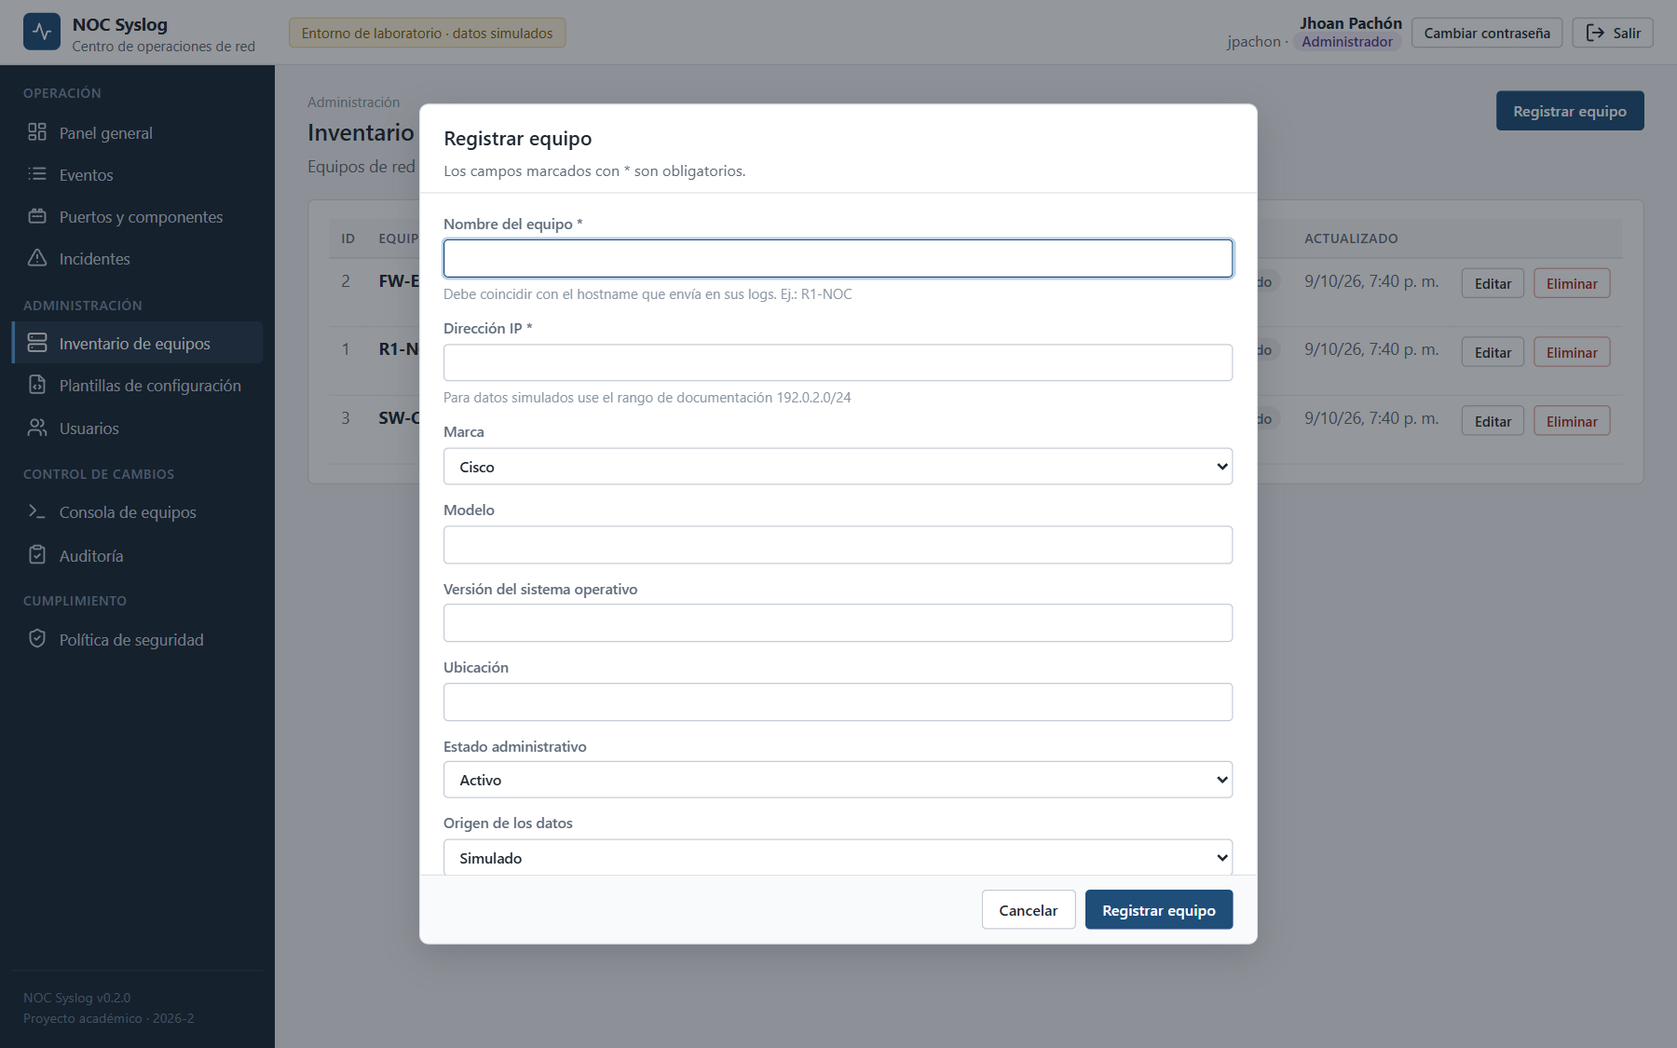
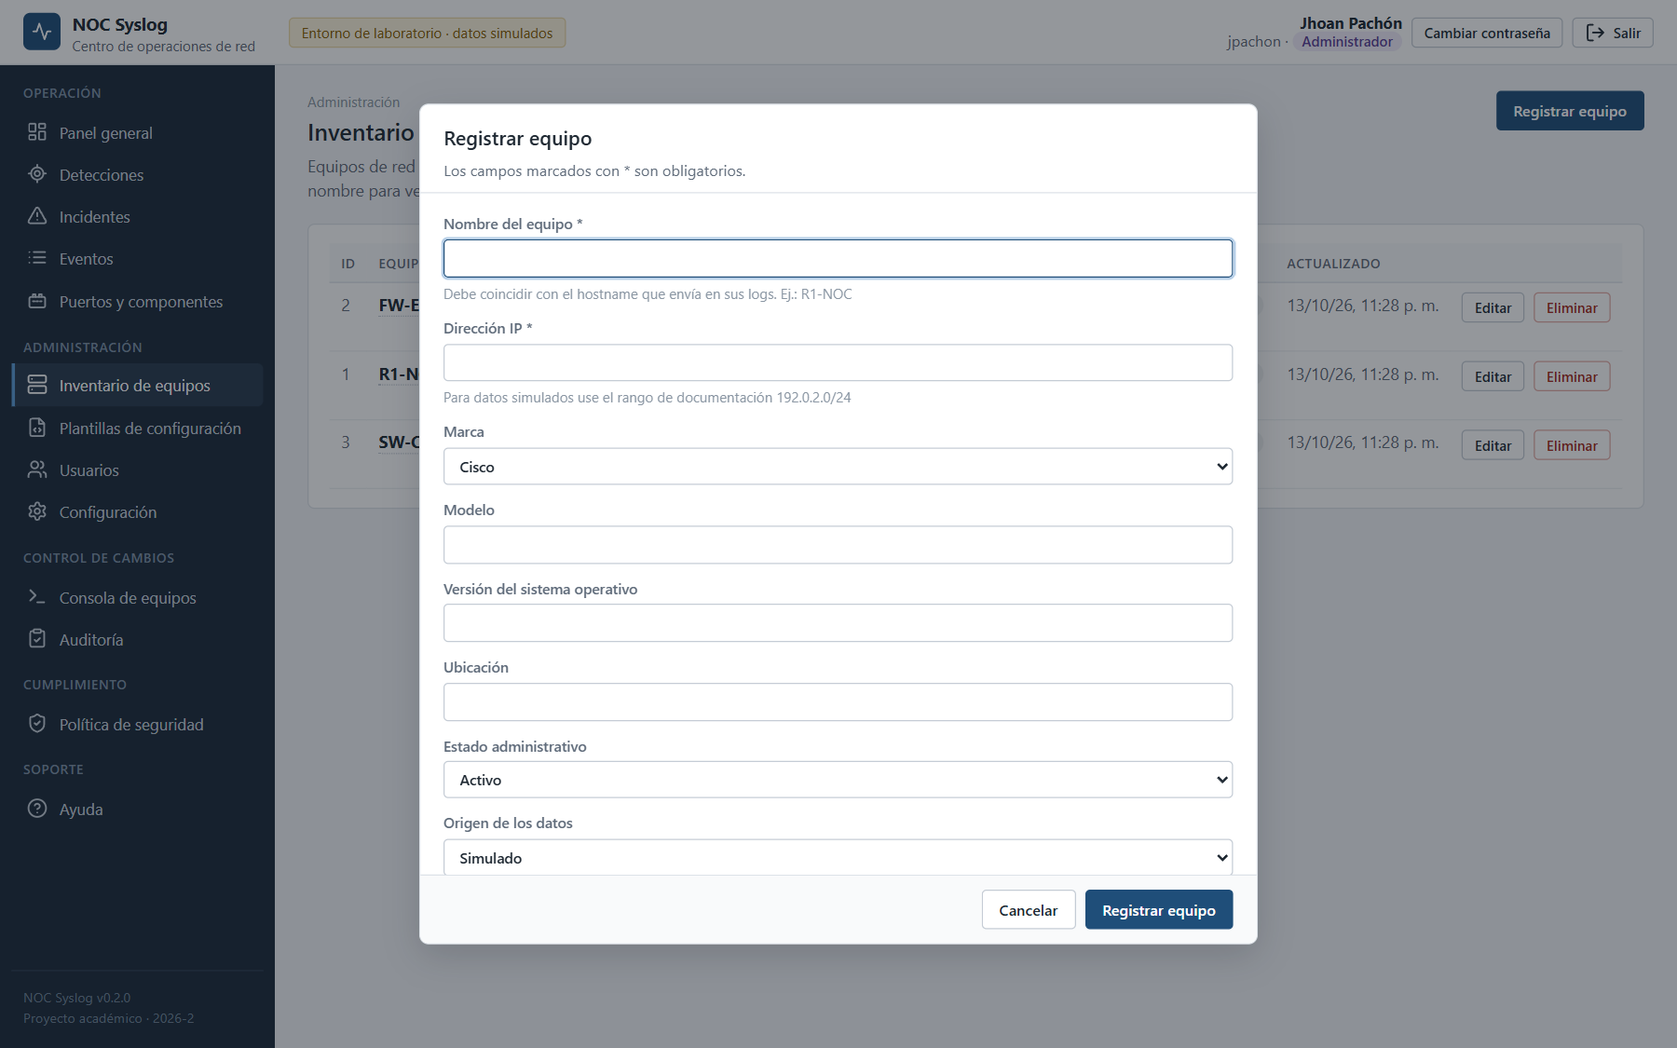
docs: la entrega del Corte 2 (v0.2.0) incluye operación y facilidad de uso
- Versión en un solo lugar (app.VERSION = 0.2.0).
- CHANGELOG, README, requisitos (RF-12 a RF-15), historias (HU-12 a HU-17)
  y pruebas (PF-11 a PF-17, PS-11, PS-12) actualizados.
- Capturas de evidencia rehechas con la interfaz final.

diff --git a/app/api/sistema.py b/app/api/sistema.py
@@ -19,7 +19,7 @@ from fastapi import APIRouter, Depends, HTTPException
 from fastapi.responses import Response
 from pydantic import BaseModel
 
-from app import config, mantenimiento
+from app import VERSION, config, mantenimiento
 from app.collector import ingest, udp_server
 from app.database import get_db
 from app.security.auth import requiere
@@ -53,7 +53,7 @@ def estado(u: dict = Depends(requiere("lector")), conn: sqlite3.Connection = Dep
     archivo = conn.execute("PRAGMA database_list").fetchone()["file"]
     ruta = Path(archivo) if archivo else None
     return {
-        "version": "0.3.0",
+        "version": VERSION,
         "udp": {**udp_server.ESTADO, "host": host,
                 "puerto": udp_server.ESTADO["puerto"] or int(os.getenv("SYSLOG_UDP_PORT", "5514")),
                 "solo_local": solo_local},

diff --git a/app/main.py b/app/main.py
@@ -18,7 +18,7 @@ from fastapi.staticfiles import StaticFiles
 
 from app.api import (auth, configgen, console, dashboard, detecciones, devices, events, incidents, puertos,
                      security, sistema, usuarios)
-from app import mantenimiento
+from app import VERSION, mantenimiento
 from app.collector.udp_server import iniciar_receptor_udp
 from app.database import get_connection, init_db
 
@@ -46,7 +46,7 @@ async def ciclo_de_vida(app: FastAPI):
 app = FastAPI(
     title="NOC Syslog Inteligente",
     description="API del NOC académico. Datos SIMULADOS.",
-    version="0.3.0",
+    version=VERSION,
     lifespan=ciclo_de_vida,
 )
 

diff --git a/tests/test_operacion.py b/tests/test_operacion.py
@@ -1,4 +1,4 @@
-"""Pruebas de la v0.3: detecciones, correlación, límite por equipo, configuración y sistema."""
+"""Pruebas de operación: detecciones, correlación, límite por equipo, configuración y sistema."""
 
 from datetime import timedelta
 

diff --git a/app/__init__.py b/app/__init__.py
@@ -1,1 +1,3 @@
 """Paquete principal de la aplicación NOC Syslog Inteligente."""
+
+VERSION = "0.2.0"  # versión entregada (se muestra en la interfaz y en /api/health)

diff --git a/docs/requisitos.md b/docs/requisitos.md
@@ -12,14 +12,16 @@ Estado: ✅ implementado y probado · 🟡 parcial · ⏳ Corte 3.
 **Objetivos específicos.**
 1. Mantener un inventario editable de dispositivos con fecha de actualización.
 2. Recibir/importar Syslog y clasificarlo por equipo, marca, fecha, facility y severidad 0–7.
-3. Visualizar estado, eventos e incidentes en un dashboard con filtros.
+3. Visualizar estado, eventos e incidentes en un dashboard con filtros, priorizando lo que requiere atención.
 4. Gestionar el ciclo de vida de incidentes.
 5. Generar configuraciones Syslog comentadas para Cisco, Fortinet y Huawei.
 6. Ofrecer una consola simulada de solo lectura con lista permitida y auditoría.
 7. Implementar una política de defensa frente a agentes de IA.
+8. Detectar automáticamente patrones entre eventos (ataques, cambios fuera de horario, inestabilidad) y relacionarlos con los incidentes.
+9. Facilitar la instalación y la operación: arranque en un paso, configuración desde la aplicación y ayuda integrada.
 
 **Alcance v0.2.0.** Las funciones anteriores con datos **simulados** (IPs 192.0.2.0/24) en laboratorio local.
-**Fuera de alcance (Corte 3).** Telegram, SSH real vía backend, RBAC con inicio de sesión, TLS, marcha blanca, despliegue.
+**Fuera de alcance (Corte 3).** Telegram, SSH real vía backend, TLS, marcha blanca, despliegue.
 
 ## Requisitos funcionales
 
@@ -35,6 +37,10 @@ Estado: ✅ implementado y probado · 🟡 parcial · ⏳ Corte 3.
 | RF-08 | Auditoría y exportación de evidencia | M | Todo comando con usuario, fecha, equipo, decisión, hash; CSV exportable; integridad verificable | HU-05 | `test_configgen_console.py` | ✅ |
 | RF-10 | Inicio de sesión por usuario y permisos por rol (lector, operador, administrador), incluidos los comandos que cada rol puede aplicar | M | Sin sesión → 401; acción de rol insuficiente → 403; lector no propone cambios; solo un administrador aprueba, y no lo suyo | HU-09, HU-10 | `test_auth_roles.py` | ✅ |
 | RF-11 | Identificar qué parte del equipo genera el problema (puerto, fuente, sensor, túnel, clúster) | M | `Interface Gi0/2 ... down` → GigabitEthernet0/2 · Caído; el panel muestra "dónde está el problema" | HU-11 | `test_puertos.py` | ✅ |
+| RF-12 | Detectar patrones entre eventos: fuerza bruta, cambio de configuración fuera de horario, puerto inestable, tormenta por equipo y manipulación | M | 5 inicios fallidos desde la misma IP en 5 min → detección (aunque sean repetidos); cada detección se convierte en incidente o se descarta con motivo | HU-12, HU-13, HU-14 | `test_operacion.py` | ✅ |
+| RF-13 | Relacionar los eventos con el incidente abierto de la misma parte del equipo y detectar su recuperación | M | Un "up" del componente agrega el evento al historial (usuario "sistema") y marca el incidente *Recuperado*; no se repite la propuesta | HU-15 | `test_operacion.py` | ✅ |
+| RF-14 | Configurar el sistema desde la aplicación: umbrales, horario laboral, respaldo, retención y datos de demostración | M | Cambio válido se aplica sin reiniciar y registra quién lo hizo; valores fuera de rango → 422; solo administrador | HU-16 | `test_operacion.py` | ✅ |
+| RF-15 | Priorizar el trabajo: bandeja "Requiere su atención", ficha por equipo, búsqueda de texto, exportación CSV y avisos en vivo | S | La bandeja ordena SLA vencidos, detecciones, propuestas, aprobaciones y equipos sin comunicación; `%` y `_` se buscan literalmente; CSV protegido contra fórmulas | HU-01, HU-02 | `test_operacion.py` | ✅ |
 | RF-09 | Notificación por Telegram | W | Una alerta por incidente, token enmascarado, sin inundar | — | — | ⏳ |
 
 ## Requisitos no funcionales
@@ -42,11 +48,11 @@ Estado: ✅ implementado y probado · 🟡 parcial · ⏳ Corte 3.
 | ID | Atributo | Requisito | Cómo se cumple | Estado |
 |---|---|---|---|---|
 | RNF-01 | Seguridad | Secretos fuera del código | `.env` + `.gitignore`; `.env.example` sin valores; contraseñas cifradas (PBKDF2) | ✅ |
-| RNF-02 | Usabilidad | Navegación comprensible | Menú lateral, colores por severidad, textos en español, ayudas por pantalla | ✅ |
+| RNF-02 | Usabilidad | Navegación comprensible | Menú lateral, bandeja priorizada, colores por severidad, textos en español, ayuda integrada por rol, diseño adaptable a celular | ✅ |
 | RNF-03 | Trazabilidad | Cada evento/acción con fecha y actor | `recibido_en`, `incident_log`, `command_audit` con usuario y fecha | ✅ |
 | RNF-04 | Confiabilidad | Errores controlados y bitácora | Validaciones (422/404/409), el receptor UDP no cae ante mensajes malos, `logging` | ✅ |
-| RNF-05 | Portabilidad | Instalación desde cero | README con pasos exactos; `requirements.txt` | ✅ |
-| RNF-06 | Mantenibilidad | Módulos y nombres claros | Paquetes `collector`, `security`, `incidents`, `configgen`, `console`, `api`, `web`; 110 pruebas | ✅ |
-| RNF-07 | Rendimiento | El tablero no se bloquea con el volumen de prueba | Índices, paginación (máx. 500), deduplicación y rate limit | ✅ |
-| RNF-08 | Recuperación | Copia y rollback | `scripts/backup_db.py` (respaldo/restauración) y tags de Git | ✅ |
+| RNF-05 | Portabilidad | Instalación desde cero | `iniciar.bat` / `iniciar.py` (un paso), configuración inicial en la aplicación, README | ✅ |
+| RNF-06 | Mantenibilidad | Módulos y nombres claros | Paquetes `collector`, `security`, `incidents`, `configgen`, `console`, `api`, `web`; 138 pruebas | ✅ |
+| RNF-07 | Rendimiento | El tablero no se bloquea con el volumen de prueba | Índices, paginación (máx. 500), deduplicación, límite por equipo, consulta agrupada de componentes y SQLite en modo WAL | ✅ |
+| RNF-08 | Recuperación | Copia y rollback | Respaldo descargable desde la aplicación, `scripts/backup_db.py` (restauración), retención y tags de Git | ✅ |
 | RNF-09 | Seguridad IA | Logs nunca como instrucciones | Ver [politica-ia.md](politica-ia.md) | ✅ |

diff --git a/README.md b/README.md
@@ -1,11 +1,11 @@
-# NOC Syslog Inteligente · v0.3.0
+# NOC Syslog Inteligente · v0.2.0 (MVP)
 
 > Proyecto académico individual · **Administración y Gestión de Redes** · Periodo 2026-2
 > Docente: Ing. John Harold Pérez Calderón · Estudiante: Jhoan Santiago Pachón Perilla
 >
 > ⚠ **Todos los dispositivos y eventos de este repositorio son SIMULADOS** (IPs de documentación `192.0.2.0/24`, RFC 5737). No se conecta a ningún equipo real.
 
-![Panel general con la bandeja "Requiere su atención"](docs/evidencias/V01-panel-requiere-atencion.png)
+![Panel general con la bandeja "Requiere su atención"](docs/evidencias/E05-dashboard.png)
 
 ## Problema que resuelve
 
@@ -29,14 +29,14 @@ Una red con equipos de varios fabricantes (Cisco, Fortinet, Huawei) produce even
 | 10 | Política de defensa frente a agentes de IA con evidencia en vivo | RNF-09 | Política de seguridad |
 | 11 | **Inicio de sesión por usuario** y **roles** (lector, operador, administrador) que definen qué puede ver, atender y qué comandos puede aplicar | RF-10 | Usuarios |
 | 12 | **Puertos y componentes**: identifica qué parte del equipo genera el problema (puerto, fuente de poder, sensor, túnel VPN, clúster HA) | RF-11 | Puertos y componentes |
-| 13 | **Detecciones automáticas** (correlación de eventos): fuerza bruta, cambios fuera de horario, puerto inestable (flapping), tormenta por equipo, manipulación en logs | v0.3 | Detecciones |
-| 14 | **Correlación con incidentes**: un evento nuevo de la misma parte del equipo se suma al incidente abierto; si se recupera, el incidente se marca "Recuperado" | v0.3 | Incidentes |
-| 15 | **"Requiere su atención"**: bandeja priorizada (SLA vencidos, detecciones, propuestas, aprobaciones, equipos caídos, recuperados) | v0.3 | Panel general |
-| 16 | **Ficha de equipo**: estado, partes con problema, incidentes, detecciones, actividad 24 h y eventos de un equipo | v0.3 | Clic en cualquier equipo |
-| 17 | **Configuración en la aplicación**: umbrales y horario laboral sin editar archivos; estado del colector; respaldo descargable; retención; datos de demostración | v0.3 | Configuración |
-| 18 | Búsqueda de texto, "Cargar más" y **exportación a Excel (CSV)** de eventos e incidentes; descartar propuestas con motivo | v0.3 | Eventos · Incidentes |
-| 19 | **Avisos en vivo** de eventos graves y detecciones nuevas (cada 15 s) y **Ayuda** integrada (por rol, conectar equipos, preguntas frecuentes) | v0.3 | Toda la interfaz · Ayuda |
-| 20 | **Instalación en 1 paso** (`iniciar.bat`) y **configuración inicial** en la app (crear el primer administrador sin tocar archivos) | v0.3 | — |
+| 13 | **Detecciones automáticas** (correlación de eventos): fuerza bruta, cambios fuera de horario, puerto inestable (flapping), tormenta por equipo, manipulación en logs | RF-12 | Detecciones |
+| 14 | **Correlación con incidentes**: un evento nuevo de la misma parte del equipo se suma al incidente abierto; si se recupera, el incidente se marca "Recuperado" | RF-13 | Incidentes |
+| 15 | **"Requiere su atención"**: bandeja priorizada (SLA vencidos, detecciones, propuestas, aprobaciones, equipos caídos, recuperados) | RF-15 | Panel general |
+| 16 | **Ficha de equipo**: estado, partes con problema, incidentes, detecciones, actividad 24 h y eventos de un equipo | RF-15 | Clic en cualquier equipo |
+| 17 | **Configuración en la aplicación**: umbrales y horario laboral sin editar archivos; estado del colector; respaldo descargable; retención; datos de demostración | RF-14 | Configuración |
+| 18 | Búsqueda de texto, "Cargar más" y **exportación a Excel (CSV)** de eventos e incidentes; descartar propuestas con motivo | RF-15 | Eventos · Incidentes |
+| 19 | **Avisos en vivo** de eventos graves y detecciones nuevas (cada 15 s) y **Ayuda** integrada (por rol, conectar equipos, preguntas frecuentes) | RF-15, RNF-02 | Toda la interfaz · Ayuda |
+| 20 | **Instalación en 1 paso** (`iniciar.bat`) y **configuración inicial** en la app (crear el primer administrador sin tocar archivos) | RNF-05 | `iniciar.bat` |
 
 ## Arquitectura
 
@@ -180,7 +180,7 @@ Rollback de código: cada versión tiene etiqueta (`git switch --detach v0.1.0`)
 
 Política completa: [docs/politica-ia.md](docs/politica-ia.md).
 
-## Limitaciones conocidas (v0.3.0)
+## Limitaciones conocidas (v0.2.0)
 
 - Datos y equipos **simulados**; la consola no se conecta por SSH (previsto para v1.0.0 con backend autorizado).
 - En laboratorio la aplicación usa HTTP; en producción debe publicarse con HTTPS (`NOC_COOKIE_SEGURA=1`).
@@ -214,5 +214,5 @@ iniciar.py · iniciar.bat · iniciar-red.bat   arranque en 1 paso
 
 ## Autor, versión y licencia
 
-Jhoan Santiago Pachón Perilla · versión **0.3.0** · Uso académico (ver [LICENSE](LICENSE)).
+Jhoan Santiago Pachón Perilla · versión **0.2.0** · Uso académico (ver [LICENSE](LICENSE)).
 Desarrollado con asistencia de IA como herramienta; el código fue ejecutado, probado y revisado por el autor. Historial de cambios en [CHANGELOG.md](CHANGELOG.md).

diff --git a/docs/pruebas.md b/docs/pruebas.md
@@ -1,4 +1,4 @@
-# Pruebas · v0.3.0
+# Pruebas · v0.2.0
 
 Ejecutar: `pytest -v` → **138 pruebas, todas pasan**.
 
@@ -27,10 +27,17 @@ Ejecutar: `pytest -v` → **138 pruebas, todas pasan**.
 | PF-04 | RF-05 | *Incidentes*: **Abrir incidente** desde un evento grave → **Gestionar** (en progreso, nota) → cerrar con causa y solución | Estados, fechas y seguimiento | E08 |
 | PF-05 | RF-06 | *Plantillas de configuración*: las 3 marcas con 192.0.2.10 / warnings | Plantillas comentadas | E09 |
 | PF-06 | RF-07 | *Consola de equipos*: `show version`, `reload`, `configure terminal` | Permitido / Bloqueado / Propuesta | E10 |
-| PF-07 | RF-08 | *Auditoría*: cambiar el "Usuario de la sesión" y **Aprobar**; exportar CSV | Aprobación registrada; CSV descargado | E10 |
+| PF-07 | RF-08 | *Auditoría*: entrar con otro administrador y **Aprobar**; exportar CSV | Aprobación registrada; CSV descargado | E10b |
 | PF-08 | HU-01 | Esperar 10 min sin enviar eventos | Equipos pasan a "sin comunicación" | E05 |
 | PF-09 | RF-10 | Iniciar sesión con `consulta`, `operador` y `jpachon` | Cada uno ve y puede hacer lo de su rol | X6–X8 |
 | PF-10 | RF-11 | *Puertos y componentes* tras enviar las muestras | GE0/0/1 caído, fuente 2 en falla, sensor crítico, HA en conmutación | E06b |
+| PF-11 | RF-12 | Enviar 5 "Login failed" desde 203.0.113.66, 4 cambios de estado de GE0/0/2 y `--tormenta` | Detecciones: fuerza bruta (7 intentos), puerto inestable, tormenta, fuera de horario y manipulación | V02 |
+| PF-12 | RF-13 | Abrir incidente por el sensor de temperatura y enviar "Temperature sensor 1 returned to normal" | El incidente queda *Recuperado*, con el evento en su historial (usuario "sistema") | V07, E05 |
+| PF-13 | RF-12 | *Detecciones* → **Abrir incidente** sobre la fuerza bruta | Incidente creado con el detalle de la detección | V08 |
+| PF-14 | RF-14 | *Configuración*: cambiar un umbral; descargar respaldo | Se aplica sin reiniciar; archivo `.db` descargado | V04 |
+| PF-15 | RF-15 | Estar en *Puertos* y enviar un evento grave | Aviso en vivo con el equipo y el componente | V09 |
+| PF-16 | RF-15 | *Eventos*: buscar "203.0.113.66" y **Exportar a Excel** | Solo los eventos con ese texto; CSV con los mismos filtros | V10 |
+| PF-17 | RNF-05 | Doble clic en `iniciar.bat` en un equipo sin usuarios | Abre el navegador y pide crear el administrador | V05 |
 
 ## Pruebas de seguridad
 
@@ -41,12 +48,16 @@ Ejecutar: `pytest -v` → **138 pruebas, todas pasan**.
 | PS-03 | `git grep -i -E "password|token|secret"` | Sin secretos reales |
 | PS-04 | `show version` en perfil ROMMON | NO_VERIFICADO |
 | PS-05 | Aprobar la propia propuesta | Rechazado (409) |
-| PS-06 | `python scripts/enviar_syslog_prueba.py --tormenta` | 1 evento agrupado; el tablero sigue fluido |
+| PS-06 | `python scripts/enviar_syslog_prueba.py --tormenta` | 1 evento agrupado, excedente descartado solo para ese equipo y detección "Tormenta"; el tablero sigue fluido |
 | PS-07 | Log con `<script>alert(1)</script>` | Se ve como texto |
 | PS-08 | 5 contraseñas incorrectas seguidas | Cuenta bloqueada 15 min (429) |
 | PS-09 | Lector escribe `configure terminal` | Bloqueado: su rol no puede proponer cambios |
 | PS-10 | Enviar otro nombre de usuario en la petición | Se ignora: la identidad sale de la sesión |
+| PS-11 | Configuración inicial desde otra IP o cuando ya hay usuarios | Rechazada (403 / 409) |
+| PS-12 | Exportar un incidente titulado `=HYPERLINK(...)` | La celda se escapa (`'=`): Excel no ejecuta la fórmula |
 
 ## Prueba de recuperación
 
 `python scripts/backup_db.py` → borrar datos → `--restaurar <archivo>` → los datos vuelven. Verificado en desarrollo (3 equipos → 0 → 3).
+
+Respaldo desde la aplicación: *Configuración › Descargar respaldo* produce un archivo SQLite válido (prueba automática `test_demo_respaldo_y_retencion`). La retención conserva los eventos vinculados a incidentes (`test_retencion_conserva_eventos_de_incidentes`).

diff --git a/docs/historias.md b/docs/historias.md
@@ -17,3 +17,9 @@ Roles: **Operador NOC** (vigila y gestiona incidentes) · **Administrador** (inv
 | HU-09 | Como responsable del NOC, quiero que cada persona entre con su usuario y contraseña para saber quién hizo cada acción. | Dado un usuario sin sesión, cuando consulta la API, entonces recibe 401; tras 5 contraseñas incorrectas la cuenta se bloquea 15 minutos. | `test_login_correcto_e_incorrecto`, `test_bloqueo_tras_5_intentos_fallidos` |
 | HU-10 | Como administrador, quiero que cada rol solo pueda atender o aplicar los comandos que le corresponden. | Dado un usuario Lector, cuando escribe `show logging` o `configure terminal`, entonces se bloquea; un Operador puede proponer; solo un Administrador distinto aprueba. | `test_lector_solo_consulta`, `test_operador_atiende_y_propone_pero_no_aprueba` |
 | HU-11 | Como operador, quiero saber en qué parte del router está el problema para atenderlo más rápido. | Dado el evento `Interface Gi0/2, changed state to down`, cuando llega, entonces el sistema indica *GigabitEthernet0/2 · Caído* en eventos, incidentes, panel y Puertos y componentes. | `test_identifica_el_componente`, `test_el_panel_dice_que_parte_del_equipo_falla` |
+| HU-12 | Como responsable de seguridad, quiero que el sistema detecte intentos repetidos de acceso fallido para reaccionar a un ataque. | Dado 5 "Login failed" desde la misma IP en 5 minutos (aunque sean idénticos), cuando llegan, entonces aparece una detección "Fuerza bruta" con la IP de origen. | `test_fuerza_bruta_por_intentos_distintos`, `test_fuerza_bruta_cuenta_tambien_los_repetidos` |
+| HU-13 | Como supervisor, quiero saber si alguien cambia la configuración fuera del horario laboral. | Dado el horario 07:00–19:00, cuando llega `CONFIG_I` a las 22:46 hora local, entonces se genera la detección "Cambio fuera de horario". | `test_cambio_de_configuracion_fuera_de_horario` |
+| HU-14 | Como operador, quiero detectar un puerto que se cae y se levanta repetidamente. | Dado 3 cambios de estado del mismo puerto en 10 minutos, entonces cada cambio queda guardado y aparece "Puerto inestable". | `test_puerto_inestable_flapping` |
+| HU-15 | Como operador, quiero que los nuevos eventos de un puerto con incidente abierto se sumen a ese incidente y saber cuándo se recuperó. | Dado un incidente abierto por Gi0/3 caído, cuando llega Gi0/3 *up*, entonces se agrega a su historial y el incidente queda *Recuperado*. | `test_evento_del_mismo_puerto_se_suma_al_incidente_y_detecta_recuperacion` |
+| HU-16 | Como administrador, quiero ajustar umbrales y horario laboral sin editar archivos. | Dado un cambio válido en Configuración, entonces se aplica sin reiniciar y queda registrado quién lo hizo; un valor fuera de rango se rechaza. | `test_configuracion_solo_administrador`, `test_configuracion_rechaza_valores_invalidos` |
+| HU-17 | Como persona que instala el NOC, quiero iniciarlo con un doble clic y crear el administrador desde el navegador. | Dado un equipo con Python, cuando ejecuto `iniciar.bat`, entonces se abre la aplicación y, si no hay usuarios, pide crear el administrador una sola vez. | `test_configuracion_inicial_crea_el_primer_administrador` |

diff --git a/CHANGELOG.md b/CHANGELOG.md
@@ -2,9 +2,9 @@
 
 Formato basado en *Keep a Changelog*. Versiones según el plan del curso.
 
-## [0.3.0] — Operación y facilidad de uso
+## [0.2.0] — MVP Corte 2
 
-### Agregado
+### Agregado — operación y facilidad de uso
 - **Instalación en 1 paso**: `iniciar.py` (multiplataforma) e `iniciar.bat` / `iniciar-red.bat` (doble clic en Windows). Crea el entorno, instala dependencias solo si cambiaron, crea `.env`, inicia y abre el navegador.
 - **Configuración inicial** en la aplicación: si no hay usuarios, se crea el primer administrador desde el navegador (una sola vez y solo desde el mismo computador), con opción de cargar la demostración.
 - **Detecciones automáticas** (tabla `detecciones`): fuerza bruta (por IP de origen, cuenta también los repetidos), cambio de configuración fuera de horario, puerto inestable (flapping), tormenta por equipo y manipulación en logs. Se revisan en la nueva pantalla *Detecciones*: abrir incidente o descartar con motivo.
@@ -18,16 +18,14 @@ Formato basado en *Keep a Changelog*. Versiones según el plan del curso.
 - Contadores de ingreso persistentes por día (tabla `ingest_stats`) y retención automática al iniciar.
 - Diseño adaptable a celular.
 
-### Cambiado
+### Cambiado — operación y facilidad de uso
 - El límite de mensajes por minuto ahora es **por equipo**: una tormenta de un router ya no silencia a los demás.
 - La deduplicación ya no agrupa un puerto que cae, sube y vuelve a caer: cada cambio de estado se guarda.
 - Las propuestas excluyen los eventos de una parte del equipo que ya tiene incidente abierto e indican si "ya se recuperó".
 - Umbrales leídos de la configuración (antes constantes del `.env`).
 - Estado de puertos y componentes calculado con una sola consulta agrupada; SQLite en modo WAL (lecturas y escrituras simultáneas).
 
-## [0.2.0] — MVP Corte 2
-
-### Agregado
+### Agregado — funciones base del MVP
 - Interfaz web administrativa (HTML/CSS/JS sin frameworks), con menú en el orden de trabajo: Operación (panel general, eventos, incidentes), Administración (inventario, plantillas), Control de cambios (consola, auditoría) y Cumplimiento (política de seguridad).
 - Panel general con el flujo de trabajo del operador en 4 pasos y contadores de tareas pendientes en el menú.
 - Formularios propios (registrar equipo, abrir/gestionar/cerrar incidente, aprobar/rechazar cambios) en lugar de las ventanas del navegador.
